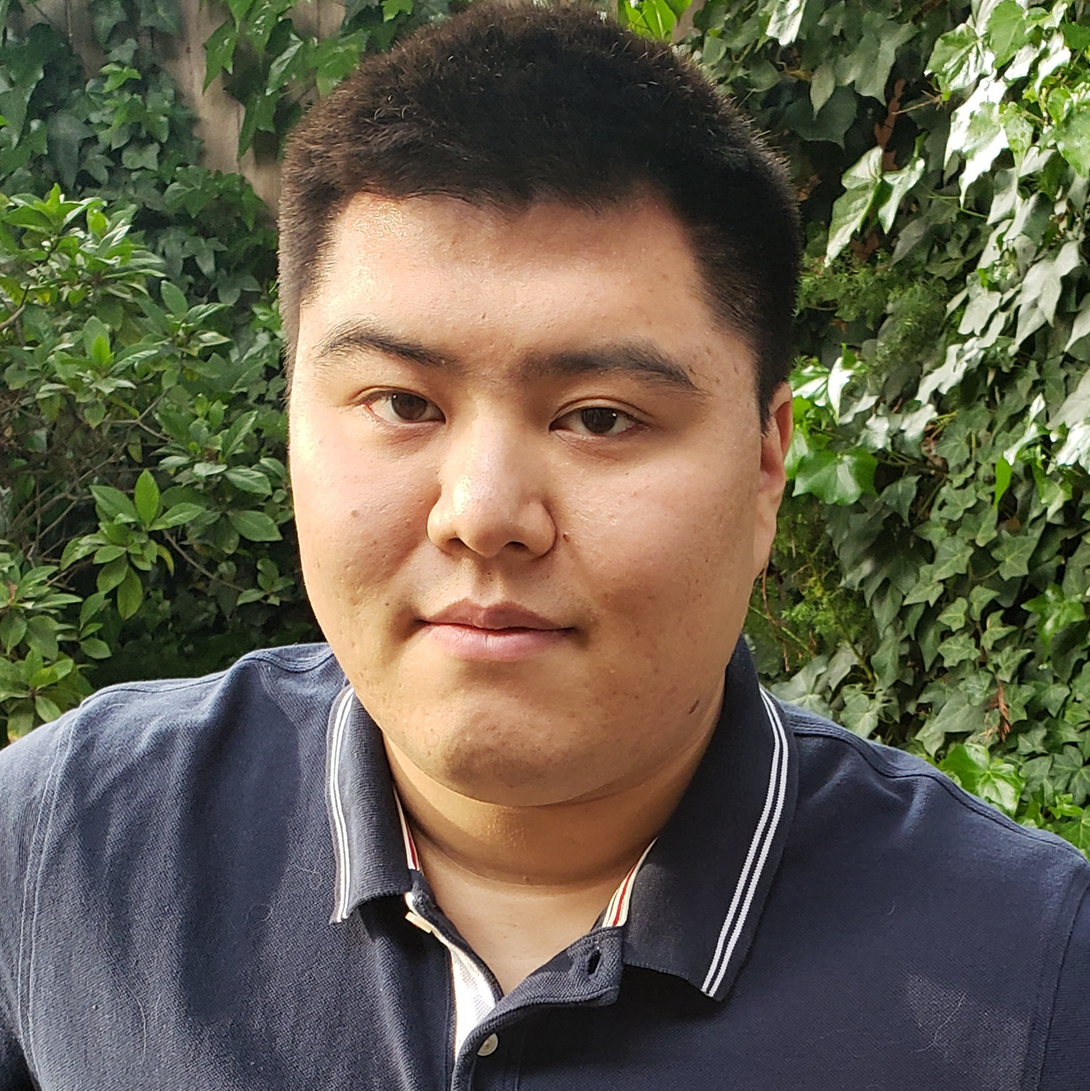
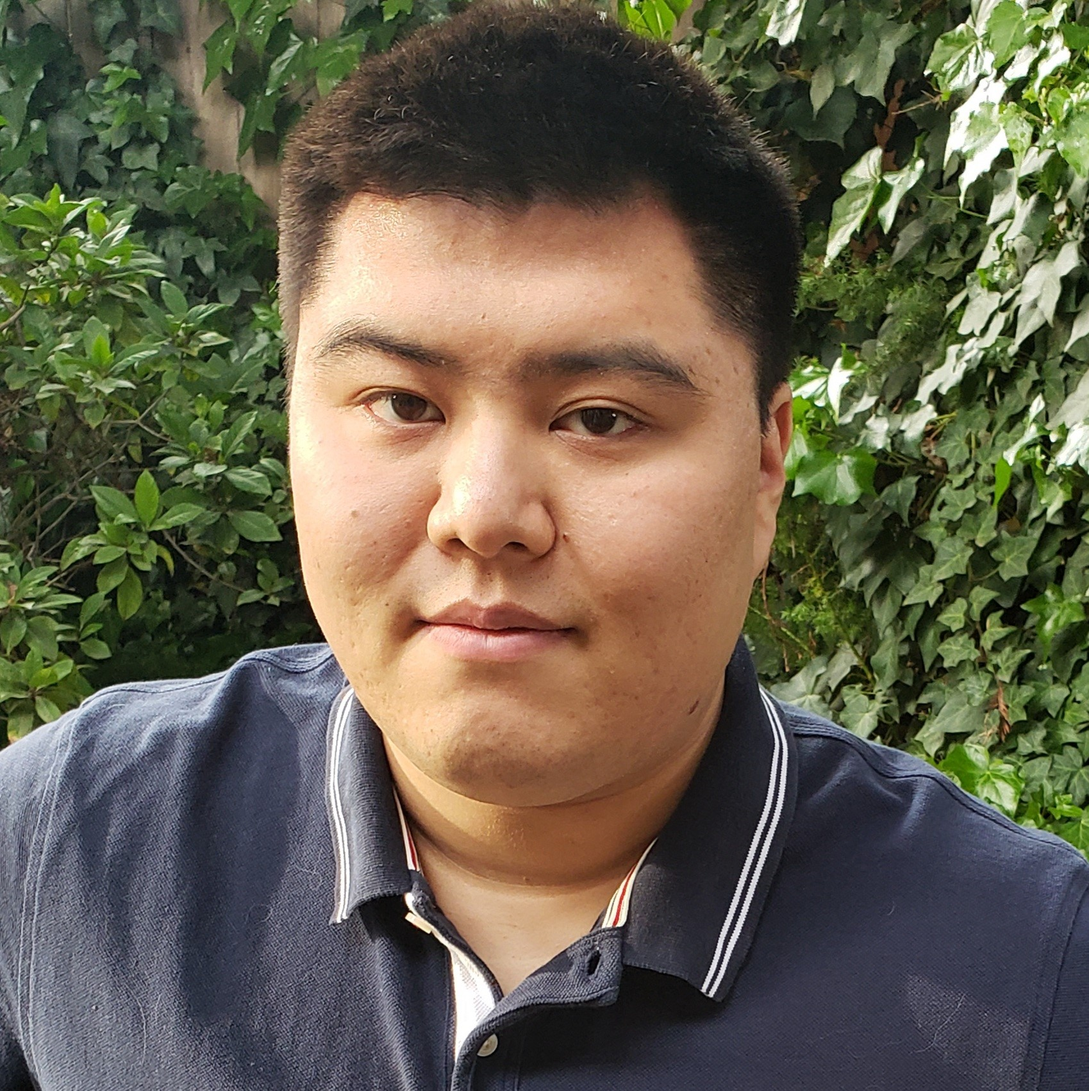
Made Hero header and About Me sections

diff --git a/index.html b/index.html
@@ -4,51 +4,72 @@
 <html lang="en">
     <head>
         <meta charset="UTF-8">
-        <meta name="viewport" content="width=device-width, initial-scale=1">
+        <meta name="viewport" content="width=device-width, initial-scale=1.0">
         <link rel="stylesheet" href="https://cdn.jsdelivr.net/npm/bootstrap@4.3.1/dist/css/bootstrap.min.css" integrity="sha384-ggOyR0iXCbMQv3Xipma34MD+dH/1fQ784/j6cY/iJTQUOhcWr7x9JvoRxT2MZw1T" crossorigin="anonymous">
         <link rel="stylesheet" type="text/css" href="style.css">
     </head>
 
     <body>
-        <!--Navbar-->
-        <nav class="navbar navbar-expand-lg fixed-top navbarScroll py-0">
-            <div class="container">
-                <a class="navbar-brand" href="#">Alexander Ku</a>
-                <button class="navbar-toggler" type="button" data-bs-toggle="collapse" data-bs-target="#navbarSupportedContent" aria-controls="navbarSupportedContent" aria-expanded="false" aria-label="Toggle navigation">
-                    <span class="navbar-toggler-icon"></span>
-                </button>
-                <div class="collapse navbar-collapse" id="navbarSupportedContent">
-                    <ul class="navbar-nav ml-auto justify-content-end">
-                        <li class="nav-item"><a class="nav-link" href="#about">About Me</a></li>
-                        <li class="nav-item"><a class="nav-link" href="#skills">Skills</a></li>
-                        <li class="nav-item"><a class="nav-link" href="#experience">Experience</a></li>
-                        <li class="nav-item"><a class="nav-link" href="#projects">Projects</a></li>
-                        <li class="nav-item"><a class="nav-link" href="#contact">Contact</a></li>
-                    </ul>
+        <nav class="navbar navbar-expand-lg navbar-light bg-light">
+            <a class="navbar-brand" href="#">Navbar</a>
+            <button class="navbar-toggler" type="button" data-toggle="collapse" data-target="#navbarSupportedContent" aria-controls="navbarSupportedContent" aria-expanded="false" aria-label="Toggle navigation">
+              <span class="navbar-toggler-icon"></span>
+            </button>
+          
+            <div class="collapse navbar-collapse" id="navbarSupportedContent">
+              <ul class="navbar-nav mr-auto">
+                <li class="nav-item"><a class="nav-link" href="#about">About Me</a></li>
+                    <li class="nav-item"><a class="nav-link" href="#skills">Skills</a></li>
+                    <li class="nav-item"><a class="nav-link" href="#experience">Experience</a></li>
+                    <li class="nav-item"><a class="nav-link" href="#projects">Projects</a></li>
+                    <li class="nav-item"><a class="nav-link" href="#contact">Contact</a></li>
+              </ul>
+            </div>
+          </nav>
+        <div class="jumbotron-fluid heroImg">
+            <div class="container header" id="home">
+                <div class="row justify-content-center align-items-center">
+                    <div class="col text-center d-flex flex-column min-vh-100 justify-content-center align-items-center">
+                        <h3 class="headerfont" style="font-size:160%; font-style:italic;">Hello, I Am</h3>
+                        <h1 class="headerfont" style="font-size:480%; font-weight:thick;">ALEXANDER KU</h1>
+                        <h3 class="headerfont" style="font-size:160%; font-style:italic;">Software Engineer Based In Fresno, California</h3>
+                        <figcaption>
+                            "Yosemite" by pululante is marked with Public Domain Mark 1.0. To view the terms, visit https://creativecommons.org/publicdomain/mark/1.0/?ref=openverse.
+                        </figcaption>
+                    </div>
                 </div>
             </div>
-        </nav>
-        <div class="header" id="home">
-            <h3 class="headerfont" style="font-size:160%; font-style:italic;">Hello, I Am</h3>
-            <h1 class="headerfont" style="font-size:480%; font-weight:thick;">ALEXANDER KU</h1>
-            <h3 class="headerfont" style="font-size:160%; font-style:italic;">Software Engineer Based In Fresno, California</h3>
-            <figcaption>
-                "Yosemite" by pululante is marked with Public Domain Mark 1.0. To view the terms, visit https://creativecommons.org/publicdomain/mark/1.0/?ref=openverse.
-            </figcaption>
         </div>
+        <!--Test row-->
+        <!-- <div class="container text-center">
+            <div class="row">
+                <div class="col-md">
+                    <h1>Column 1</h1>
+                </div>
+                <div class="col-md">
+                    <h2>COlumn 2</h2>
+                </div>
+                <div class="col-md">
+                    <h3>Column 3</h3>
+                </div>
+            </div>
+        </div> -->
         <!--Columns for page-->
-        <div class="row1" id="about">
-            <div class="side1">
-                <img src="images/professional_pfp.jpg" alt="" class="profileImg">
-            </div>
-            <div class="main1">
-                <h1 style="text-align:center"><u>About Me</u></h1>
-                <p class="paragraph">I am a professional, passionate, and focused software engineer with a successful academic background, professional working experience, and a portfolio full of projects that display my various skills. I love creating new projects and learning about new technologies, and enjoy a good chance to put my problem-solving skills to work. I stay focused on any task at hand and keep myself open to any possibilities, traits that I believe help me shoot for the best solutions possible. I also understand the importance of regular communication and teamwork, and believe strongly that multiple talented minds together can achieve all sorts of results that only one mind can dream of.</p>
-                <p class="paragraph">I love working on exciting projects and learning about new technologies, and am always fascinated by the many things that one can do with coding and the potential that they can unlock. I hope to also one day be able to unlock my full potential, and understand that the best and possibly only way to do so is to continuously challenge myself and expand my knowledge in the process. I’m not sure if there really is such a thing as perfection, but from my experience, even just the drive to achieve it alone was enough for me to grow meaningfully, and I carry that mantra with me in my coding and use that mindset to guide me.</p>
-                <p class="paragraph">Besides programming, I also love cooking, playing games (video games, tabletop games, physical games, any sort of game really), manga and anime, and exercising. I also have an interest in martial arts and combat sports, and wrestled competitively and, at various times throughout my life, practiced taekwondo, Brazilian jiu-jitsu, and Muay Thai.</p>
+        <div class="jumbotron-fluid">
+            <div class="row justify-content-md-center" id="about">
+                <div class="col col-lg-3 text-center d-flex flex-column min-vh-25 justify-content-center align-items-center" style="background-color:rgb(36, 33, 33);">
+                    <!-- <div class="placeholder"></div> -->
+                    <img src="images/professional_pfp.jpg" alt="" class="profileImg" width="300" height="300">
+                </div>
+                <div class="col">
+                    <h1 style="text-align:center"><u>About Me</u></h1>
+                    <p class="paragraph">I am a professional, passionate, and focused software engineer with a successful academic background, professional working experience, and a portfolio full of projects that display my various skills. I love creating new projects and learning about new technologies, and enjoy a good chance to put my problem-solving skills to work. I stay focused on any task at hand and keep myself open to any possibilities, traits that I believe help me shoot for the best solutions possible. I also understand the importance of regular communication and teamwork, and believe strongly that multiple talented minds together can achieve all sorts of results that only one mind can dream of.</p>
+                    <p class="paragraph">I love working on exciting projects and learning about new technologies, and am always fascinated by the many things that one can do with coding and the potential that they can unlock. I hope to also one day be able to unlock my full potential, and understand that the best and possibly only way to do so is to continuously challenge myself and expand my knowledge in the process. I’m not sure if there really is such a thing as perfection, but from my experience, even just the drive to achieve it alone was enough for me to grow meaningfully, and I carry that mantra with me in my coding and use that mindset to guide me.</p>
+                    <p class="paragraph">Besides programming, I also love cooking, playing games (video games, tabletop games, physical games, any sort of game really), manga and anime, and exercising. I also have an interest in martial arts and combat sports, and wrestled competitively and, at various times throughout my life, practiced taekwondo, Brazilian jiu-jitsu, and Muay Thai.</p>
+                </div>
             </div>
         </div>
-        <div class="row1" id="skills">
+        <div class="row" id="skills">
             <div class="mainOnly">
                 <h1 style="text-align: center"><u>Skills</u></h1>
                 <h2 style="text-align: left; margin-bottom:0px"><u>Languages</u></h2>
@@ -318,7 +339,7 @@
                 <p>Software Engineering and Development, Teamwork, Communication, Problem Solving, Pixel Art, Presentations</p>
             </div>
         </div>
-        <div class="row1" id="experience">
+        <div class="row" id="experience">
             <div class="side1">
                 <img src="images/graduation_photo_cropped.jpeg" alt="" class="gradImg">
             </div>
@@ -362,7 +383,7 @@
                 </div>
             </div>
         </div>
-        <div class="row1" id="projects">
+        <div class="row" id="projects">
             <div class="mainOnly">
                 <h1 style="text-align: center;"><u>Projects</u></h1>
                 <div class="subRow">

diff --git a/style.css b/style.css
@@ -5,17 +5,16 @@ body {
 
 /* Header styling */
 .header {
-    padding: 400px;
-    text-align: center;
-    background: linear-gradient(rgba(0, 0, 0, 0.5), rgba(0, 0, 0, 0.25)), url("images/yosemite_header_pic.jpg");
-    background-size:cover;
-    background-repeat:no-repeat;
-    background-position:center;
     color: white;
 }
 
 .header h1 {
     font-size: 40px;
+}
+
+.heroImg {
+    background-image: linear-gradient(rgba(0, 0, 0, 0.5), rgba(0, 0, 0, 0.25)), url("images/yosemite_header_pic.jpg");
+    background-position: center;
 }
 
 figcaption {
@@ -56,11 +55,6 @@ figcaption {
 /* Row class styling */
 * {
     box-sizing: border-box;
-}
-
-.row1 {
-    display: flex;
-    flex-wrap: wrap;
 }
 
 .subRow {
@@ -124,26 +118,28 @@ figcaption {
     color:white;
 }
 
-/* Responsive layout to make columns stack if screen is too narrow (ex. minimized page) */
-@media screen and (max-width: 700px) {
-    .row {
-        flex-direction: column;
-    }
-}
-
-/* Responsive layout to make nav links stack if screen is too narrow */
-@media screen and (max-width: 400px) {
-    .navbar a {
-        float: none;
-        width: 100%;
-    }
-}
-
 /* Profile pic settings */
 .profileImg {
     width: 100%;
-    margin: auto;
-    display: block;
+    height: auto;
+    margin-left: 1.5%;
+    /* margin: auto; */
+    /* display: block; */
+}
+
+.profileImgPadding {
+    /* padding: 30px; */
+    width: 300px;
+    height: 300px;
+}
+
+/*for testing*/
+.placeholder {
+    width: 300px;
+    height: 300px;
+    background-color:rgb(69, 42, 165);
+    background-image: linear-gradient(rgba(0, 0, 0, 0.5), rgba(0, 0, 0, 0.25)), url("images/professional_pfp.jpg");
+    background-position: center;
 }
 
 .gradImg {
@@ -226,4 +222,22 @@ figcaption {
 
 html {
     scroll-behavior: smooth;
+}
+
+/* Responsive layout to make columns stack if screen is too narrow (ex. minimized page) */
+@media screen and (max-width: 768px) {
+    .media {
+        max-width: 768px;
+    }
+    .row {
+        flex-direction: column;
+    }
+}
+
+/* Responsive layout to make nav links stack if screen is too narrow */
+@media screen and (max-width: 400px) {
+    .navbar a {
+        float: none;
+        width: 100%;
+    }
 }
